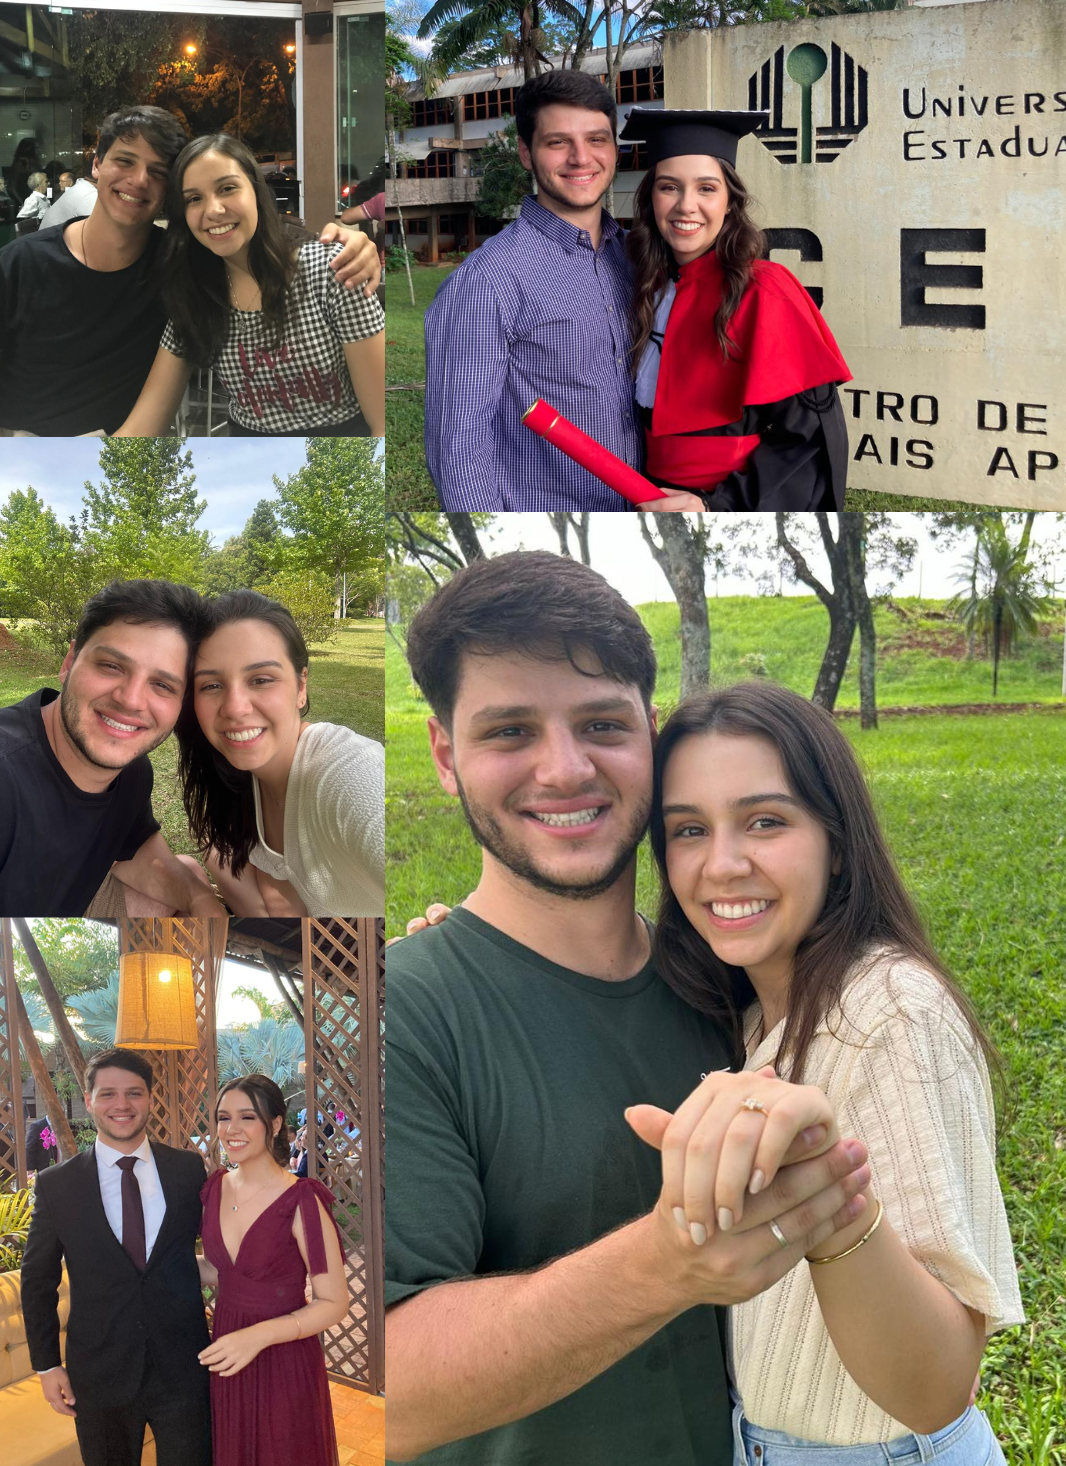
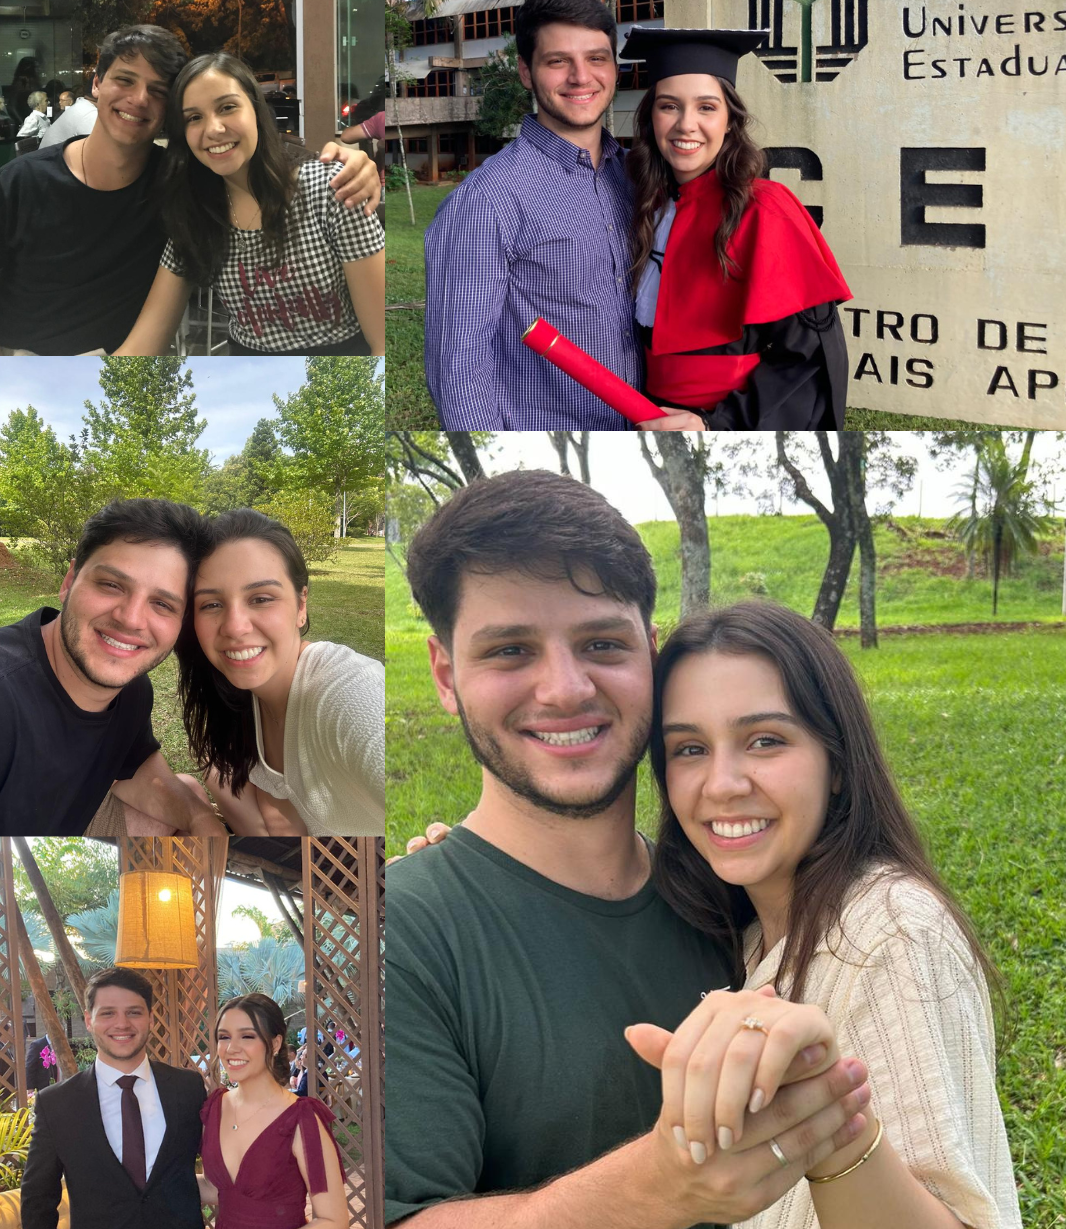
Site finalizado para confirmação

diff --git a/style.css b/style.css
@@ -221,6 +221,7 @@ input[type="submit"]:hover {
     text-align: left; /* Alinha o texto à esquerda */
     flex: 1; /* Permite que a parte da chave Pix ocupe o espaço disponível */
     margin-right: 20px; /* Espaço entre a chave Pix e o QR Code */
+    cursor: pointer;
 }
 
 /* QR Code */
@@ -421,6 +422,19 @@ a {
     margin-bottom: 15px; /* Espaçamento abaixo do parágrafo */
 }
 
+.mapa-sugestoes {
+    width: 100%;
+    max-width: 800px; /* Ajuste a largura máxima conforme necessário */
+    margin: 20px auto; /* Centraliza o mapa na página */
+}
+
+.mapa-sugestoes iframe {
+    width: 100%; /* Faz com que o iframe preencha a largura do contêiner */
+    height: 480px; /* Mantém a altura do mapa */
+    border: 0; /* Remove a borda padrão */
+    border-radius: 10px; /* Borda arredondada */
+}
+
 
 #noivado {
     justify-content: center;
@@ -523,7 +537,8 @@ a {
     }
 
     #infos-cidade{
-        background-color: #2F4533;
+        /* background-color: #2F4533; */
+        background-color: transparent;
     }
 
     .info-box {
@@ -551,12 +566,8 @@ a {
         font-size: 0.9em;
     }
 
-    .info-lista a{
-        background-color: #5C8063;
-    }
-
     #noivado{
-        width: 70%;
+        width: 60%;
     }
 
     .mapa-sugestoes iframe{
@@ -566,8 +577,6 @@ a {
     .flor{
         width: 60%;
     }
-
-
 }
 
 @media screen and (max-width: 480px) {

diff --git a/script.js b/script.js
@@ -35,7 +35,7 @@ form.addEventListener('submit', e => {
 document.getElementById("copiar-pix").addEventListener("click", function() {
     const codigoPix = "00020126360014BR.GOV.BCB.PIX0114+55439964861515204000053039865802BR5925Pedro Miguel Odebrecht Na6009SAO PAULO62140510UFpE2HYtqB6304C0F4"; // Código Pix
     navigator.clipboard.writeText(codigoPix).then(() => {
-        alert("Código Pix copiado para a área de transferência!");
+        alert("Código Pix copiado!");
     });
 });
 
@@ -46,3 +46,15 @@ function toggleMenu() {
     menu.classList.toggle('active');
     toggle.classList.toggle('active');
 }
+
+document.getElementById('pix-info').addEventListener('click', function() {
+    const number = '(43) 996486151';
+    navigator.clipboard.writeText(number).then(() => {
+        // Estilo de feedback visual
+        this.style.cursor = 'pointer';
+        this.style.backgroundColor = '#e0ffe0'; // Muda a cor de fundo ao clicar
+        alert('Chave Pix Copiada: ' + number);
+    }).catch(err => {
+        console.error('Erro ao copiar: ', err);
+    });
+});

diff --git a/index.html b/index.html
@@ -74,7 +74,7 @@
         <div class="pix-qrcode">
             <img src="img/qrcode.jpg" alt="QR Code Pix" class="qrcode">
         </div>
-        <div class="pix-info">
+        <div class="pix-info" id="pix-info">
             <h5>Chave Pix:<br>(43) 996486151<br><br>Pedro Miguel Odebrecht Nassif<br><br>Instituição: Nubank</h5>
         </div>
     </div>
@@ -176,7 +176,7 @@
 
    
 
-    <section id="noivado">  <img src="img\fotonossa.png" alt="flor" class="noivado"> </section>
+    <section id="noivado">  <img src="img\noivado.jpg" alt="flor" class="noivado"> </section>
       
     
     <footer>
